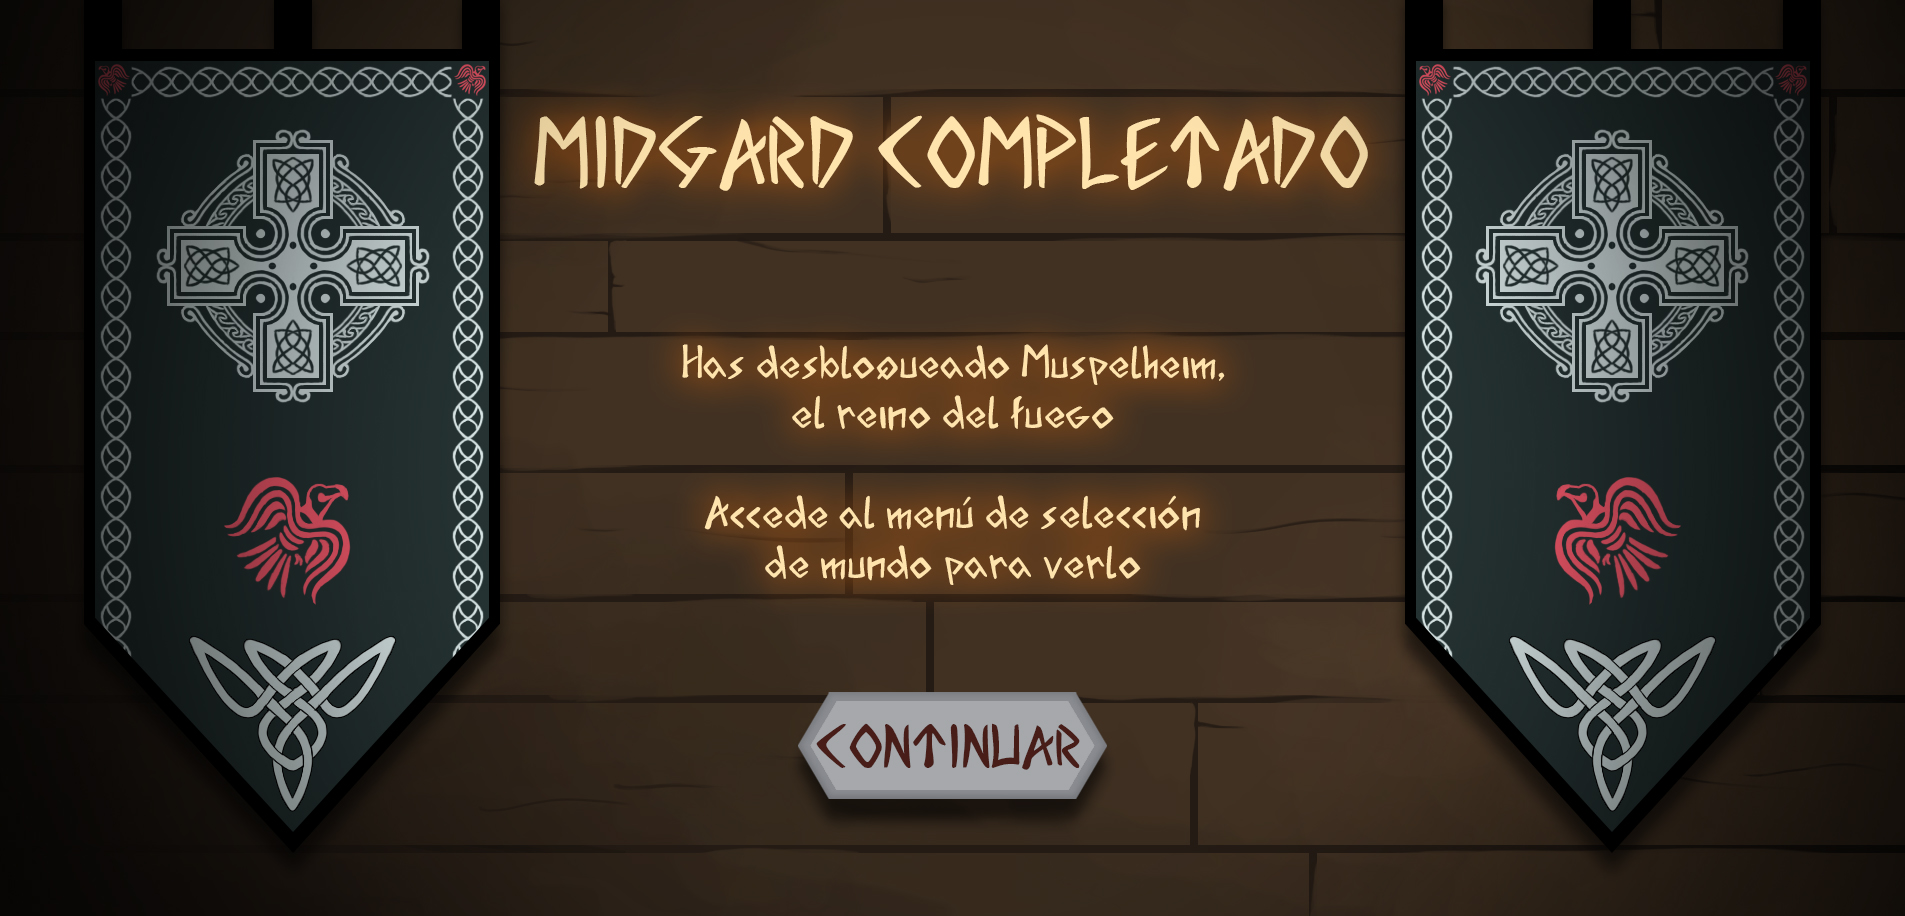
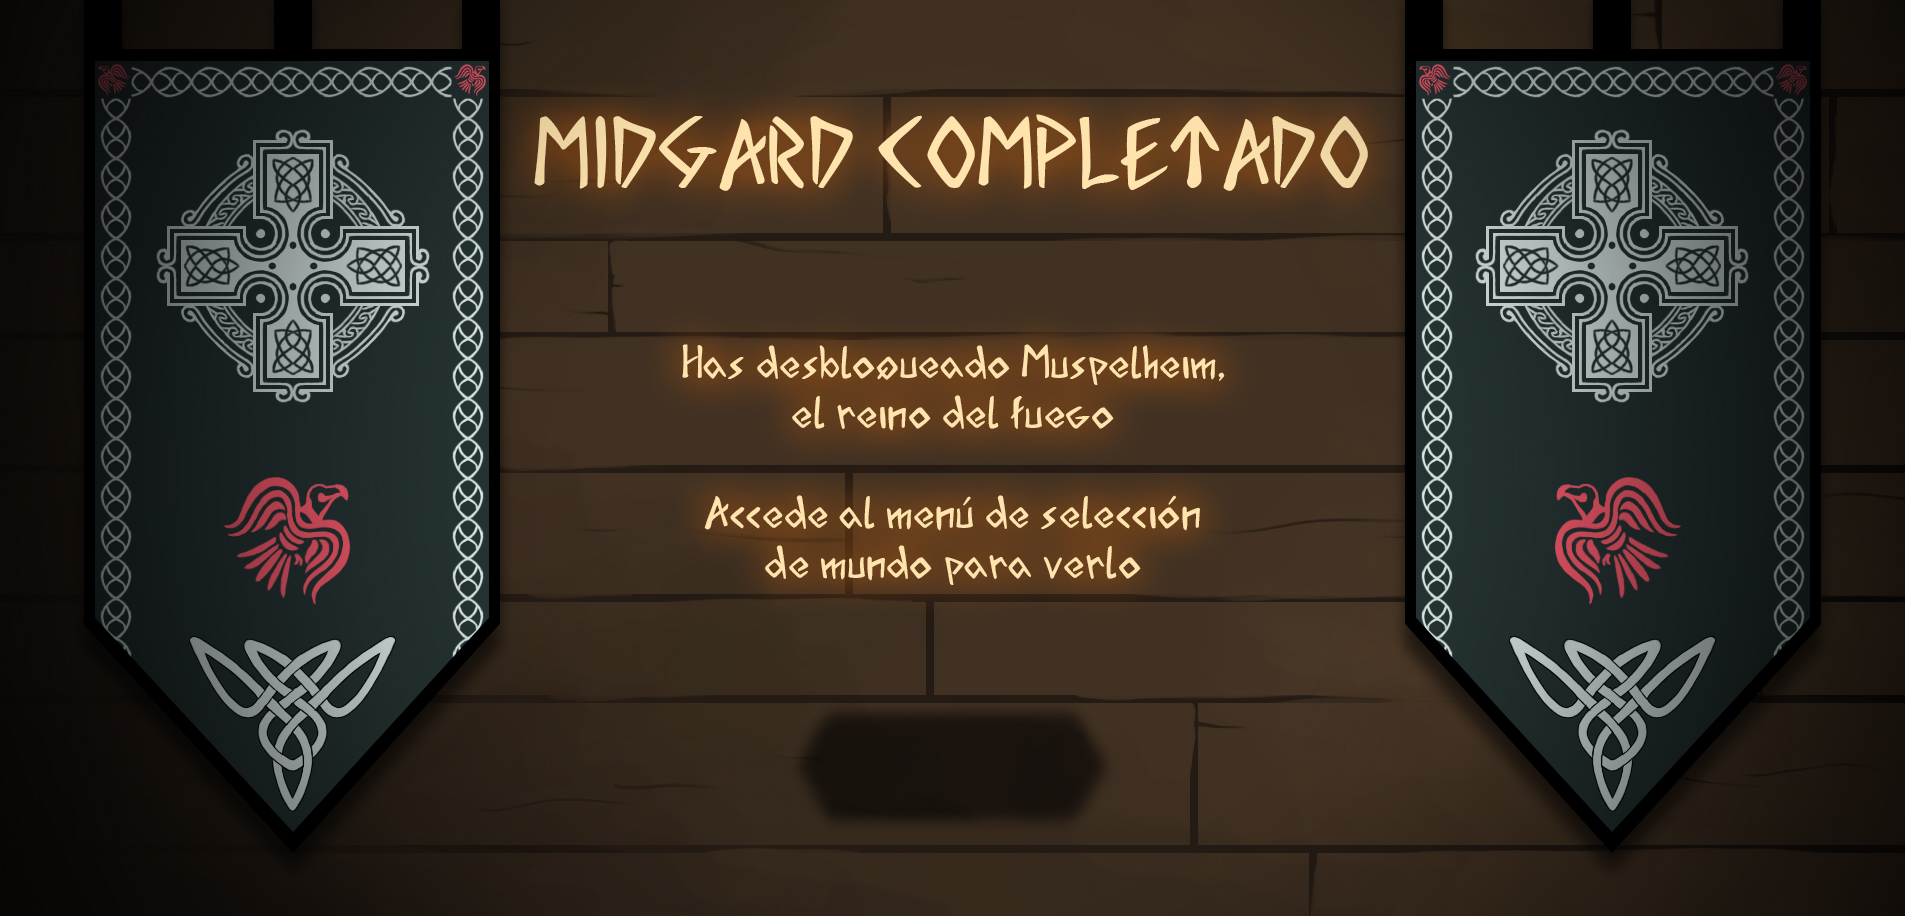
changes

Changed region(s): [[0.4026, 0.7336, 0.5885, 0.8865]]

diff --git a/ALaSombraDeYggdrasil/JS/ShopMenu.js b/ALaSombraDeYggdrasil/JS/ShopMenu.js
@@ -35,14 +35,14 @@ class ShopMenu extends Phaser.Scene{
     this.backgroundSM .setPosition(gameWidth/2, gameHeight/2);
 
     //MONEY
-    this.MoneyShop = this.add.text(gameWidth*14.8/16, gameHeight*1/16,  user.money, {fontFamily: "Acadian_Runes",fontSize: "26px", align: 'center', fill: "#481d18"});
+    this.MoneyShop = this.add.text(gameWidth*14.9/16, gameHeight*0.9/16,  user.money, {fontFamily: "Acadian_Runes",fontSize: "26px", align: 'center', fill: "#481d18"});
     this.SetTextPos();
     //this.Money.setOrigin(0.5,0.5);
 
     //BOTON OBJETO 1
-    this.object1Button = this.add.image(gameWidth*3.96/16, gameHeight*14.08/16, 'deselectedButtonSmall');
+    this.object1Button = this.add.image(gameWidth*3.96/16, gameHeight*14.15/16, 'deselectedButtonSmall');
     this.object1Button.setScale(2/3);
-    this.object1ButtonSel = this.add.image(gameWidth*3.69/16, gameHeight*14.08/16, 'selSmallLeftButton');
+    this.object1ButtonSel = this.add.image(gameWidth*3.69/16, gameHeight*14.15/16, 'selSmallLeftButton');
     this.object1ButtonSel.setScale(2/3);
     this.object1ButtonSel.setVisible(false);
     this.object1Bought = this.add.image(gameWidth*3.96/16, gameHeight*8.75/16, 'object1Bought');
@@ -64,9 +64,9 @@ class ShopMenu extends Phaser.Scene{
     this.object1Button.setInteractive({ useHandCursor: true}).on('pointerdown', () => this.AddObject1());
 
     //BOTON OBJETO 2
-    this.object2Button = this.add.image(gameWidth*6.66/16, gameHeight*14.08/16, 'deselectedButtonSmall');
+    this.object2Button = this.add.image(gameWidth*6.66/16, gameHeight*14.15/16, 'deselectedButtonSmall');
     this.object2Button.setScale(2/3);
-    this.object2ButtonSel = this.add.image(gameWidth*6.39/16, gameHeight*14.08/16, 'selSmallLeftButton');
+    this.object2ButtonSel = this.add.image(gameWidth*6.39/16, gameHeight*14.15/16, 'selSmallLeftButton');
     this.object2ButtonSel.setScale(2/3);
     this.object2ButtonSel.setVisible(false);
     this.object2Bought = this.add.image(gameWidth*6.66/16, gameHeight*8.75/16, 'object2Bought');
@@ -92,9 +92,9 @@ class ShopMenu extends Phaser.Scene{
     this.object2Button.setInteractive({ useHandCursor: true}).on('pointerdown', () => this.AddObject2());
 
     //BOTON OBJETO 3
-    this.object3Button = this.add.image(gameWidth*9.36/16, gameHeight*14.08/16, 'deselectedButtonSmall');
+    this.object3Button = this.add.image(gameWidth*9.36/16, gameHeight*14.15/16, 'deselectedButtonSmall');
     this.object3Button.setScale(2/3);
-    this.object3ButtonSel = this.add.image(gameWidth*9.09/16, gameHeight*14.08/16, 'selSmallLeftButton');
+    this.object3ButtonSel = this.add.image(gameWidth*9.09/16, gameHeight*14.15/16, 'selSmallLeftButton');
     this.object3ButtonSel.setScale(2/3);
     this.object3ButtonSel.setVisible(false);
     this.object3Bought = this.add.image(gameWidth*9.36/16, gameHeight*8.75/16, 'object3Bought');
@@ -120,9 +120,9 @@ class ShopMenu extends Phaser.Scene{
     this.object3Button.setInteractive({ useHandCursor: true}).on('pointerdown', () => this.AddObject3());
 
     //BOTON OBJETO 4
-    this.object4Button = this.add.image(gameWidth*12.05/16, gameHeight*14.08/16, 'deselectedButtonSmall');
+    this.object4Button = this.add.image(gameWidth*12.05/16, gameHeight*14.15/16, 'deselectedButtonSmall');
     this.object4Button.setScale(2/3);
-    this.object4ButtonSel = this.add.image(gameWidth*11.77/16, gameHeight*14.08/16, 'selSmallLeftButton');
+    this.object4ButtonSel = this.add.image(gameWidth*11.77/16, gameHeight*14.15/16, 'selSmallLeftButton');
     this.object4ButtonSel.setScale(2/3);
     this.object4ButtonSel.setVisible(false);
     this.object4Bought = this.add.image(gameWidth*12.04/16, gameHeight*8.75/16, 'object4Bought');
@@ -148,9 +148,9 @@ class ShopMenu extends Phaser.Scene{
     this.object4Button.setInteractive({ useHandCursor: true}).on('pointerdown', () => this.AddObject4());
 
     //BOTON ATRAS
-    this.backButtonSM = this.add.image(gameWidth*14.74/16, gameHeight*14.08/16, 'deselectedButtonSmall');
+    this.backButtonSM = this.add.image(gameWidth*14.7/16, gameHeight*14.17/16, 'deselectedButtonSmall');
     this.backButtonSM.setScale(2/3);
-    this.backButtonSMSel = this.add.image(gameWidth*14.45/16, gameHeight*14.08/16, 'selSmallLeftButton');
+    this.backButtonSMSel = this.add.image(gameWidth*14.41/16, gameHeight*14.17/16, 'selSmallLeftButton');
     this.backButtonSMSel.setScale(2/3);
     this.backButtonSMSel.setVisible(false);
     //Texto Boton

diff --git a/ALaSombraDeYggdrasil/JS/World1Map.js b/ALaSombraDeYggdrasil/JS/World1Map.js
@@ -70,36 +70,35 @@ class World1Map extends Phaser.Scene{
     });
 
     //MONEY
-    this.backgroundMoneyW1M = this.add.image(gameWidth*12/16, gameHeight*1.1/16, 'deselectedButtonSmall');
+    this.backgroundMoneyW1M = this.add.image(gameWidth*13.25/16, gameHeight*1.1/16, 'deselectedButtonSmall'); //13.25
     this.backgroundMoneyW1M.setScale(1.5/3);
-    this.MoneyW1M = this.add.text(gameWidth*13/16, gameHeight*0.92/16,  user.money, {fontFamily: "Acadian_Runes",fontSize: "20px", align: 'center', fill: "#481d18"});
-
+    this.MoneyW1M = this.add.text(gameWidth*13.4/16, gameHeight*0.92/16,  user.money, {fontFamily: "Acadian_Runes",fontSize: "20px", align: 'center', fill: "#481d18"});
     this.SetTextPos();
 
 
     //BOTON TIENDA
-    this.shopButtonW1M = this.add.image(gameWidth*13.25/16, gameHeight*1.1/16, 'deselectedButtonSmall');
+    this.shopButtonW1M = this.add.image(gameWidth*14.5/16, gameHeight*1.1/16, 'deselectedButtonSmall'); //14.5
     this.shopButtonW1M.setScale(1.5/3);
-    this.shopButtonW1MSel = this.add.image(gameWidth*13.45/16, gameHeight*1.1/16, 'selSmallRightButton');
+    this.shopButtonW1MSel = this.add.image(gameWidth*14.7/16, gameHeight*1.1/16, 'selSmallRightButton');
     this.shopButtonW1MSel.setScale(1.5/3);
     this.shopButtonW1MSel.setVisible(false);
-    this.shopButtonText = this.add.text(gameWidth*12.95/16, gameHeight*0.93/16,  stringsJSON.Buttons.shop, {fontFamily: "Acadian_Runes",fontSize: "15px", align: 'center', fill: "#481d18"});
+    this.shopButtonText = this.add.text(gameWidth*14.2/16, gameHeight*0.93/16,  stringsJSON.Buttons.shop, {fontFamily: "Acadian_Runes",fontSize: "15px", align: 'center', fill: "#481d18"});
     if (userConfig.lang == "en"){
-      this.shopButtonText.setX(gameWidth*13.1/16);
+      this.shopButtonText.setX(gameWidth*14.3/16);
     }
     this.shopButtonW1M.on('pointerover', function (pointer) {this.shopButtonW1MSel.setVisible(true);}, this);
     this.shopButtonW1M.on('pointerout', function (pointer) {this.shopButtonW1MSel.setVisible(false);}, this);
     this.shopButtonW1M.setInteractive({ useHandCursor: true}).on('pointerdown', () => this.ShopMenuW1M());
 
     //OPTIONS
-    this.optionsButtonMSM = this.add.image(gameWidth*10.8/16, gameHeight*1.1/16, 'deselectedButtonSmall');
+    this.optionsButtonMSM = this.add.image(gameWidth*12.05/16, gameHeight*1.1/16, 'deselectedButtonSmall'); //12.05
     this.optionsButtonMSM.setScale(1.5/3);
-    this.optionsButtonMSMSel = this.add.image(gameWidth*10.6/16, gameHeight*1.1/16, 'selSmallLeftButton');
+    this.optionsButtonMSMSel = this.add.image(gameWidth*11.85/16, gameHeight*1.1/16, 'selSmallLeftButton');
     this.optionsButtonMSMSel.setScale(1.5/3);
     this.optionsButtonMSMSel.setVisible(false);
-    this.opButtonText = this.add.text(gameWidth*10.4/16, gameHeight*0.93/16,  stringsJSON.Buttons.options, {fontFamily: "Acadian_Runes",fontSize: "15px", align: 'center', fill: "#481d18"});
+    this.opButtonText = this.add.text(gameWidth*11.65/16, gameHeight*0.93/16,  stringsJSON.Buttons.options, {fontFamily: "Acadian_Runes",fontSize: "15px", align: 'center', fill: "#481d18"});
     if (userConfig.lang == "en"){
-      this.opButtonText.setX(gameWidth*10.45/16);
+      this.opButtonText.setX(gameWidth*11.7/16);
     }
     this.optionsButtonMSM.on('pointerover', function (pointer) {this.optionsButtonMSMSel.setVisible(true);}, this);
     this.optionsButtonMSM.on('pointerout', function (pointer) {this.optionsButtonMSMSel.setVisible(false);}, this);
@@ -1284,15 +1283,15 @@ class World1Map extends Phaser.Scene{
    SetTextPos(){
 
      if((user.money>=0) && (user.money<100)){
-       this.MoneyW1M.x = gameWidth*12/16
+       this.MoneyW1M.x = gameWidth*13.2/16
      }else if((user.money>=100) && (user.money<1000)){
-       this.MoneyW1M.x = gameWidth*11.9/16
+       this.MoneyW1M.x = gameWidth*13.1/16
      }else if ((user.money>1000) && (user.money<10000)){
-       this.MoneyW1M.x = gameWidth*11.8/16
+       this.MoneyW1M.x = gameWidth*13/16
      }else if ((user.money>=10000) && (user.money<100000)){
-       this.MoneyW1M.x = gameWidth*11.7/16
+       this.MoneyW1M.x = gameWidth*12.9/16
      }else{
-       this.MoneyW1M.x = gameWidth*11.6/16
+       this.MoneyW1M.x = gameWidth*12.8/16
      }
    }
 

diff --git a/ALaSombraDeYggdrasil/JS/LevelManager.js b/ALaSombraDeYggdrasil/JS/LevelManager.js
@@ -195,7 +195,7 @@ class LevelManager extends Phaser.Scene
             if(musicGameplayIce.volume <= 0){
                 musicGameplayIce.setVolume(userConfig.volumeMusic/10);
             }
-        }            
+        }
 
 
         // 1.2) Sonidos
@@ -256,7 +256,7 @@ class LevelManager extends Phaser.Scene
         // Dependiendo de la dificultad escogida asignamos nº vidas
         switch (userConfig.difficulty) {
             case 0:
-                this.playerHealth = 50;
+                this.playerHealth = 5;
                 break;
             case 1:
                 this.playerHealth = 3;
@@ -537,6 +537,7 @@ class LevelManager extends Phaser.Scene
         this.fullScreenLM.setScrollFactor(0);
         this.fullScreenLM.setDepth(10);
         this.fullScreenLM.setInteractive({ useHandCursor: true}).on('pointerdown', function() { this.scene.scale.toggleFullscreen()});
+
 
 
         // ----CONTROLES----
@@ -1504,7 +1505,7 @@ class LevelManager extends Phaser.Scene
             this.minTrapDistance = levelSettings[i][l][2];
             this.goldBase = levelSettings[i][l][3];
         }
-        this.playerMovementSpeed = 6000;
+        //this.playerMovementSpeed = 6000;
     }
 
     // Reinicia el nivel
@@ -1816,6 +1817,10 @@ class LevelManager extends Phaser.Scene
                 this.Money.x = gameWidth*12.6/16
             }
         }
+    }
+
+    showIcons(){
+
     }
 
 }

diff --git a/ALaSombraDeYggdrasil/JS/WinnerMenu.js b/ALaSombraDeYggdrasil/JS/WinnerMenu.js
@@ -23,13 +23,13 @@ class WinnerMenu extends Phaser.Scene{
 
     //Volver a Jugar
     //Botones
-    this.continueButtonWM = this.add.image(gameWidth*8/16, gameHeight*11.7/16, 'deselectedButton');
+    this.continueButtonWM = this.add.image(gameWidth*8/16, gameHeight*13.1/16, 'deselectedButton');
     this.continueButtonWM.setScale(2/3);
-    this.continueButtonWMSel = this.add.image(gameWidth*7.65/16, gameHeight*11.7/16, 'selLeftButton');
+    this.continueButtonWMSel = this.add.image(gameWidth*7.65/16, gameHeight*13.1/16, 'selLeftButton');
     this.continueButtonWMSel.setScale(2/3);
     this.continueButtonWMSel.setVisible(false);
     //Texto
-    this.continueText = this.add.text(gameWidth*6.8/16, gameHeight*11.17/16,  stringsJSON.Buttons.continue , {fontFamily: "Acadian_Runes", fill: "#481d18", fontSize: "40px"});
+    this.continueText = this.add.text(gameWidth*6.8/16, gameHeight*12.57/16,  stringsJSON.Buttons.continue , {fontFamily: "Acadian_Runes", fill: "#481d18", fontSize: "40px"});
     if (userConfig.lang == "en"){
       this.continueText.setX(gameWidth*6.95/16);
     }

diff --git a/ALaSombraDeYggdrasil/JS/MapSelectionMenu.js b/ALaSombraDeYggdrasil/JS/MapSelectionMenu.js
@@ -116,7 +116,7 @@ class MapSelectionMenu extends Phaser.Scene{
     //BOTON TIENDA
     this.optionsButtonMSM = this.add.image(gameWidth*14.5/16, gameHeight*1.1/16, 'deselectedButtonSmall');
     this.optionsButtonMSM.setScale(1.5/3);
-    this.optionsButtonMSMSel = this.add.image(gameWidth*14.7/16, gameHeight*1.1/16, 'selSmallRightButton');
+    this.optionsButtonMSMSel = this.add.image(gameWidth*14.3/16, gameHeight*1.1/16, 'selSmallLeftButton');
     this.optionsButtonMSMSel.setScale(1.5/3);
     this.optionsButtonMSMSel.setVisible(false);
     this.optButtonText = this.add.text(gameWidth*14.1/16, gameHeight*0.92/16,  stringsJSON.Buttons.options, {fontFamily: "Acadian_Runes",fontSize: "15px", align: 'center', fill: "#481d18"});
